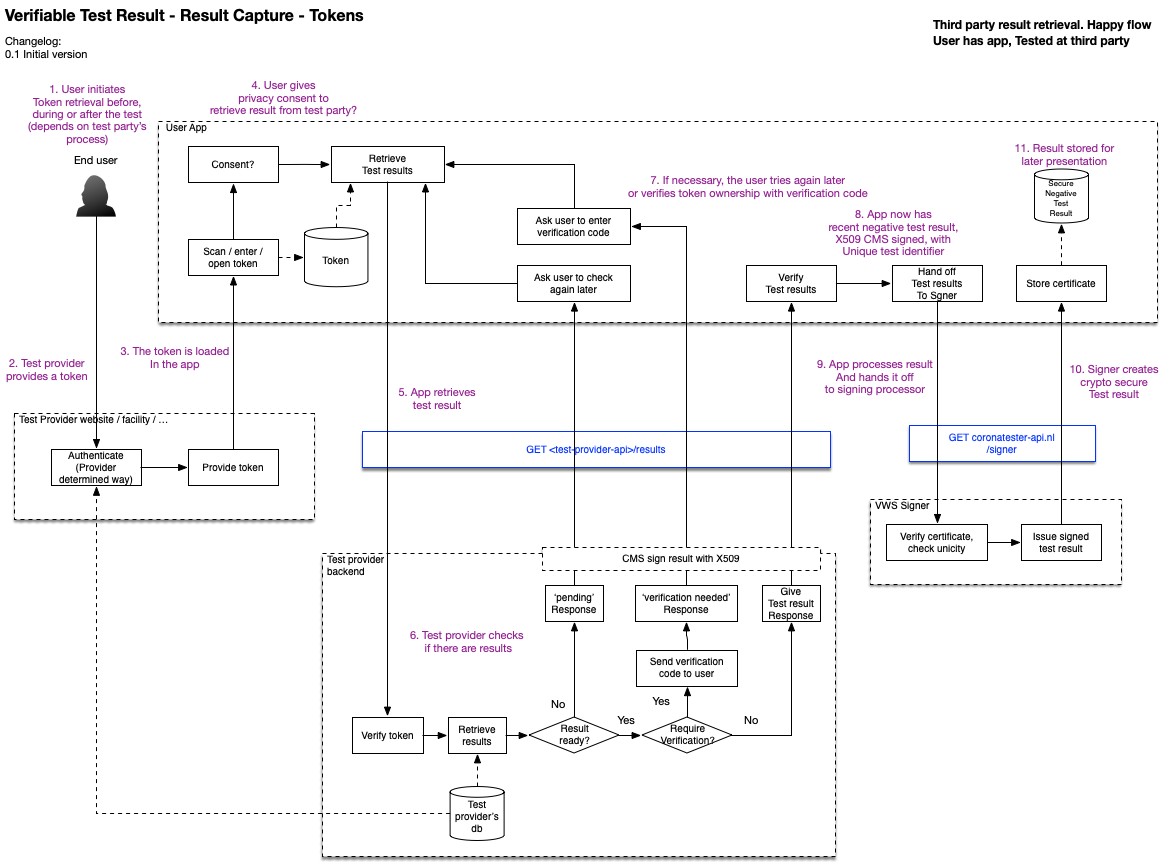
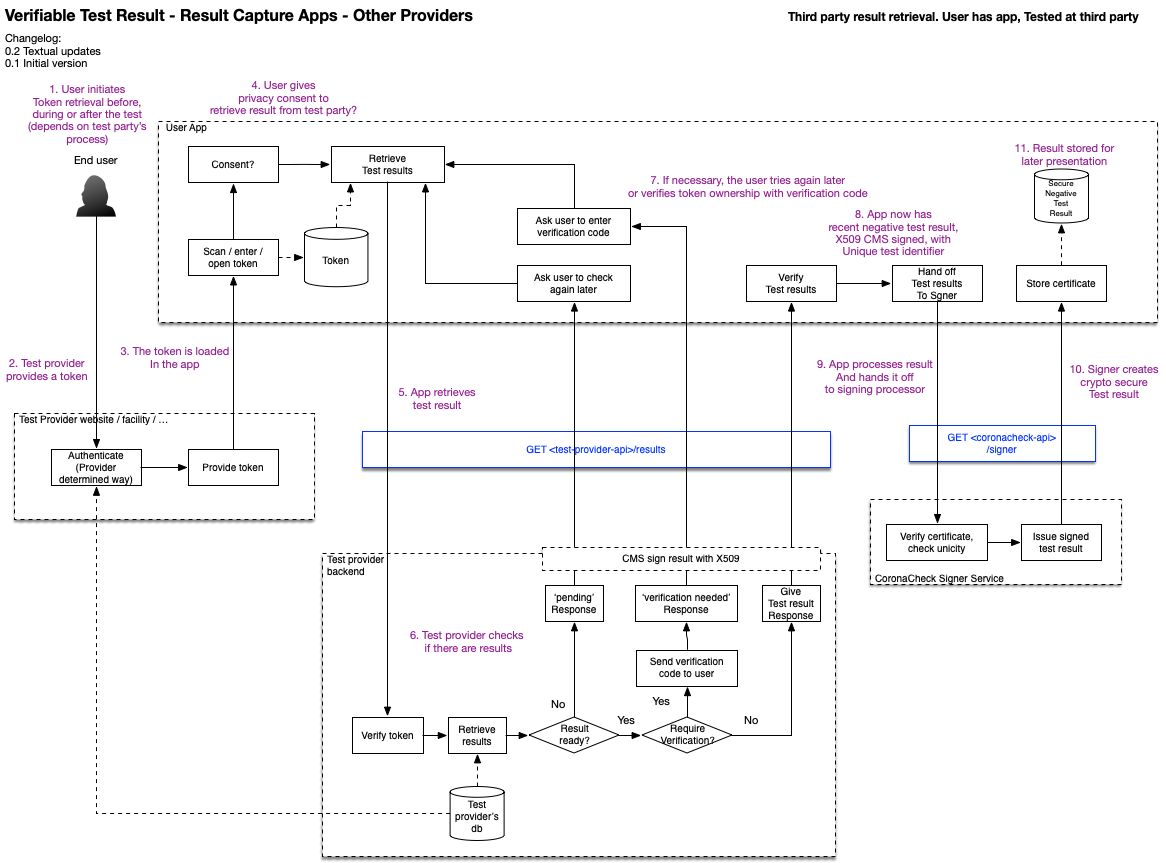
Added home print and terminal print flows. Updated a few other bits.

diff --git a/architecture/Solution Architecture VTR.md b/architecture/Solution Architecture VTR.md
@@ -1,7 +1,7 @@
 # COVID-19 CoronaTester Verifiable Test Result - Solution Architecture
 
 
-**Version:** 0.2 (Work in Progress)
+**Version:** 0.3 (Work in Progress)
 
 # Introduction
 
@@ -34,6 +34,8 @@ This document is work in progress and will be adjusted during the project. Given
 - [Flows](#flows)
   * [Flow 1: Retrieving a GGD test result](#flow-1--retrieving-a-ggd-test-result)
   * [Flow 2: Retrieving a third party test result](#flow-2--retrieving-a-third-party-test-result)
+  * [Flow 3: Printing a test result](#flow-3-printing-a-test-result)
+  * [Flow 4: Test result print service](#flow-4-test-result-print-service)
 - [System Landscape](#system-landscape)
 - [Security & Privacy](#security--privacy)
   * [Overview](#overview)
@@ -147,6 +149,7 @@ Throughout this document we use a number of core concepts. To get an understandi
 * An *agent* is the person that performs the actual verification (e.g. a bouncer at the door)
 * An *issuer* is the provider of certified test results (e.g. a health authority)
 * A *citizen* is a person who was tested and wants to enter a venue.
+* The *holder* is the citizen that is the legal holder of a test result.
 
 ## Solution
 The following diagram depicts the high level architecture of the solution. The diagram can best be interpreted by starting at one of the user icons and following their actions across the system. In later versions of this document we will detail some of these flows in separate diagrams in more detail.
@@ -179,7 +182,7 @@ This chapter describes the core flow that we are following, which is derived fro
 
 ## Flow 1: Retrieving a GGD test result 
 
-The following diagram describes how the solution would retrieve a **negative** test result from a GGD test (positive results are not relevant to the solution), and convert it to a verifiable test result. For GGD test results we can use a digid authentication mechanism. 
+The following diagram describes how the solution would retrieve a **negative** test result from a GGD test (positive results are not currently relevant to the solution), and convert it to a verifiable test result. For GGD test results we can use a digid authentication mechanism. 
 
 ![Flow - GGD Result](images/flow-ggd-result.png)
 
@@ -187,13 +190,34 @@ The following diagram describes how the solution would retrieve a **negative** t
 
 The following diagram describes what the flow looks like for third parties where we can't retrieve the test result via BSN/Digid check. 
 
-![Flow - Third Party Result](images/test-result-provisioning.png)
+![Flow - Third Party Result Provisioning](images/test-result-provisioning.png)
 
 In this scenario the digid login has been replaced by a token mechanism. A user might still have to login (via digid or otherwise) at the test provider, to obtain access to the necessary token.
 
 The following diagram details how this token flow works in detail. Note that the 'login on the test provider site' is just an example, as how this part of the flow works is entirely up to the test provider.
 
-![Flow - Third Party Result](images/flow-testparty-result.png)
+![Flow - Third Party Result Flow](images/flow-testparty-result.png)
+
+## Flow 3: Printing a test result
+
+For citizens who do not posess a smartphone or who do not wish to use the app, a browser version is envisioned where citizens can print the test result on a printer at home. It should be noted that the paper version offers slightly *less* privacy features, for example a static QR on a paper is linkable, as opposed to the QR in the app that rotates every few minutes. Also, the paper version contains the initials of the holder (to be able for a holder to distinguish between the papers of themselves and their family members), whereas in the app version these are only visible once scanned, in the verifier app. For privacy concerned citizens it is therefore recommended to prefer the app over the paper version.
+
+The following diagram describes the home print flow. It is very similar to flow 2. There will also be a way to retrieve GGD results in the home print flow: the differences between the ggd and third party flows can also be applied to the home print flow. it is so similar to the existing flows that making the combination of flow 1 and 3 is left as an exercise to the reader.
+
+![Flow - Printing a test result](images/flow-testparty-result-homeprint.png)
+
+## Flow 4: Test result print service
+
+For citizens who do not have or want to use the app, but also have no means to print the test proof, we have envisioned a way to do printing from a public terminal (e.g. in a store front). The following diagram depicts this flow from a user perspective:
+
+![Flow - Third Party Result Provisioning](images/test-result-provisioning-terminal.png)
+
+A notable difference with the other flows is that the verification code by SMS has been replaced by an ID check. This is to ensure that even if the citizen does not posess a mobile phone that can receive SMS messages, it is possible to print the proof. Printing is currently based on the token that is used in the third party flow. An alternative solution for GGD results (which are based on digid, which can't be used at the print terminal) should be considered, which could encompass the ability to retrieve a token for GGD results.
+
+The following diagram is the complete flow diagram for this flow:
+
+![Flow - Test result print terminal](images/flow-testparty-result-printterminal.png)
+
 
 # System Landscape
 
@@ -243,7 +267,7 @@ We don't want to keep data around longer than necessary. Therefor we have define
 
 ### Apps cleanup
 
-Todo
+* Test results are deleted after they have become invalid. Since technical it is difficult to delete items when the app is not running, the app will remove the data the first time the app starts after the data has expired.
 
 ## App/Device Verification
 
@@ -282,11 +306,13 @@ The idea is to generate a database of all locations and the capacity for the nex
 
 ## Data model
 
-Todo.
+The solution does not consist of a central database. A citizen retrieves their test result directly from the test provider (who use their own data model). The app then hands the result off to a signing service, which verifies the result signature, and converts it to a CL signed test result. This result is not centrally stored.
+
+To avoid test proofs from being handed out more than once, the `unique` field from the test result is hashed and stored in redis for a limited time. 
 
 ## Public API (papi)
 
-The public API is the API that is accessible via the public internet, by the CoronaTester apps. The following diagram describes the architecture of this public API: TODO
+The public API is the API that is accessible via the public internet, by the CoronaCheck apps. The following diagram describes the architecture of this public API: TODO
 
 The definition of the Public API can be found in the [API Swagger Files](api/) (TODO)
 
@@ -334,10 +360,17 @@ Apps run on the user’s device and updates require a review process that is not
 
 # Changelog
 
+0.3
+
+* Renamed the signer service to 'CoronaCheck Signer Service'
+* Added home print flow
+* Added terminal print flow
+* A word on cleanup of data in the apps
+
 0.2
 
 * Replaced proxy service with a signer service 
-* Added third party test result collection. 
+* Added third party test result collection 
 * Updated flow diagrams
 
 0.1
